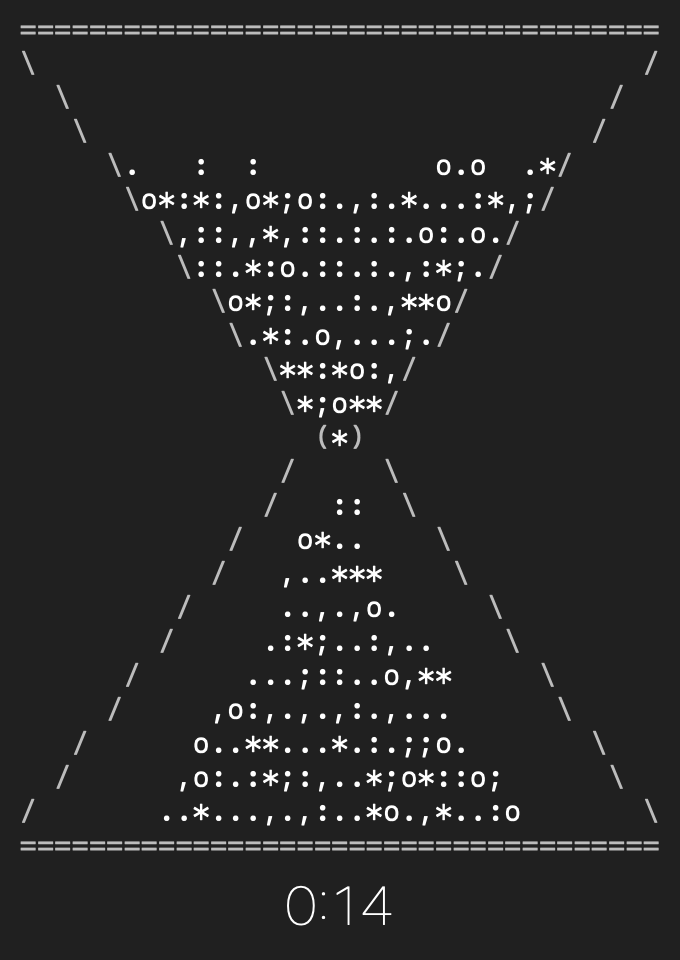
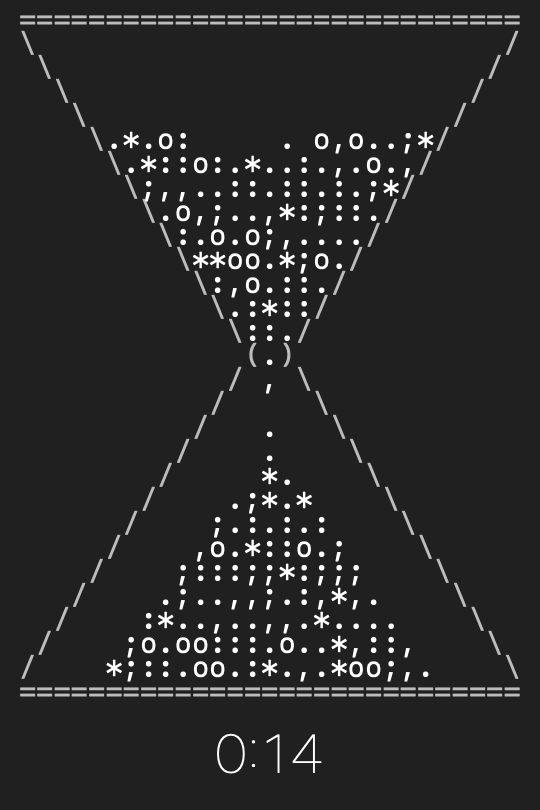
Regenerate the demo GIF and hero at the ideal glass geometry

diff --git a/README.md b/README.md
@@ -3,7 +3,7 @@
 **A menu bar hourglass for the Mac. The sand drains over the current clock
 hour, and at the top of every hour the glass turns itself over.**
 
-<img src="docs/demo.gif" width="340" alt="The TimeTurner window: an hourglass drawn in keyboard characters, its sand draining grain by grain to 0:00, then turning over and starting the hour again">
+<img src="docs/demo.gif" width="270" alt="The TimeTurner window: an hourglass drawn in keyboard characters, its sand draining grain by grain to 0:00, then turning over and starting the hour again">
 
 The whole thing is drawn out of keyboard characters. The frame is `=` `/`
 `\` `(` `)`, the sand is `.` `:` `;` `,` `*` `o`, and every grain is real: a
